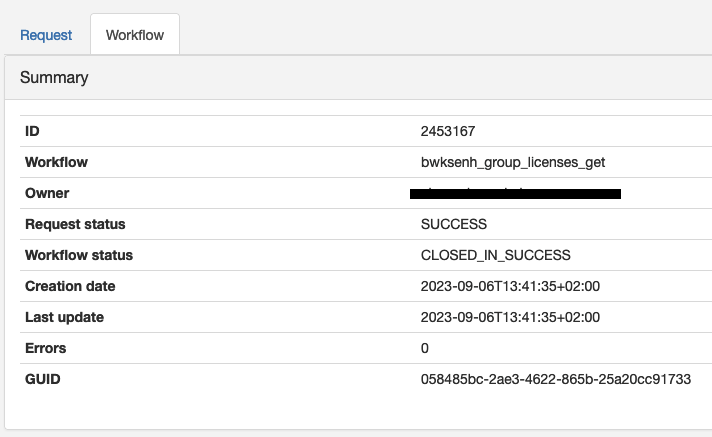
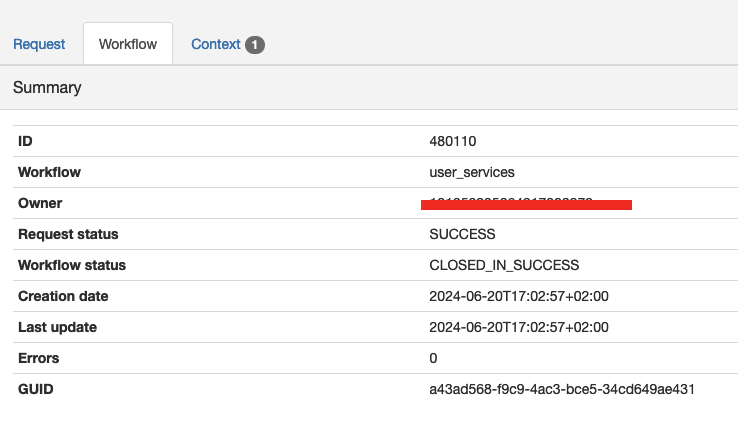
depict the move of the context table to its own tab

Changed region(s): [[0.0, 0.0305, 1.0, 0.946], [0.0, 0.9765, 1.0, 1.0]]

diff --git a/docs/history/requests.md b/docs/history/requests.md
@@ -36,7 +36,7 @@ When the Broadsfot integration is enabled, and the request is not overloaded by 
 
 Every calls to custom routes (public or not) are logged in the database. So a user can see the details of the requests and their execution.
 
-Details are split in 2 tabs
+Details are split in 3 tabs
 
 ### Request
 
@@ -46,7 +46,7 @@ The request is displayed in a JSON viewer with at least the following attributes
 
 | Attribute | Description |
 | --------- | ----------- |
-| **body** | The body of the request. (The body is represented in a base64 encoded format if it is not a JSON) |
+| **body** | The body of the request.<br/>If the request was started with a multipart body containing files, they will appear in the `Attachments`section below.<br/>The body might be represented in a base64 encoded format if it cannot be parsed from the input stream. |
 | **content_type** | The content type of the request. |
 | **match_info** | The parameters extracted from the URL match. |
 | **method** | The HTTP method of the request. |
@@ -59,8 +59,6 @@ On the right side of the JSON viewer, there is a set of buttons to
 - **Request as JSON**: Download the request as a JSON file.
 - **Context as JSON**: Download the context as a JSON file.
 - **Auto-refresh**: Enable or disable the auto-refresh of the request / workflow details.
-
-Then there is a table with the context of the instance. The instance context refer to the context of the workflow instance. It is a set of key-value pairs that can be used by the workflow to store data during its execution. (sensitive data like passwords, tokens etc... are hidden)
 
 ### Workflow
 
@@ -142,6 +140,10 @@ When there is an error in the workflow, a panel is displayed with the details of
 #### Events
 
 A panel is displayed with the list of events received by the workflow. This can be useful to debug the workflow.
+
+### Context
+
+The instance context refer to the context of the workflow instance. It is a set of key-value pairs that can be used by the workflow tasks to store data over execution. (sensitive data like passwords, tokens etc... are obfuscated)
 
 ## Proxied request details
 
